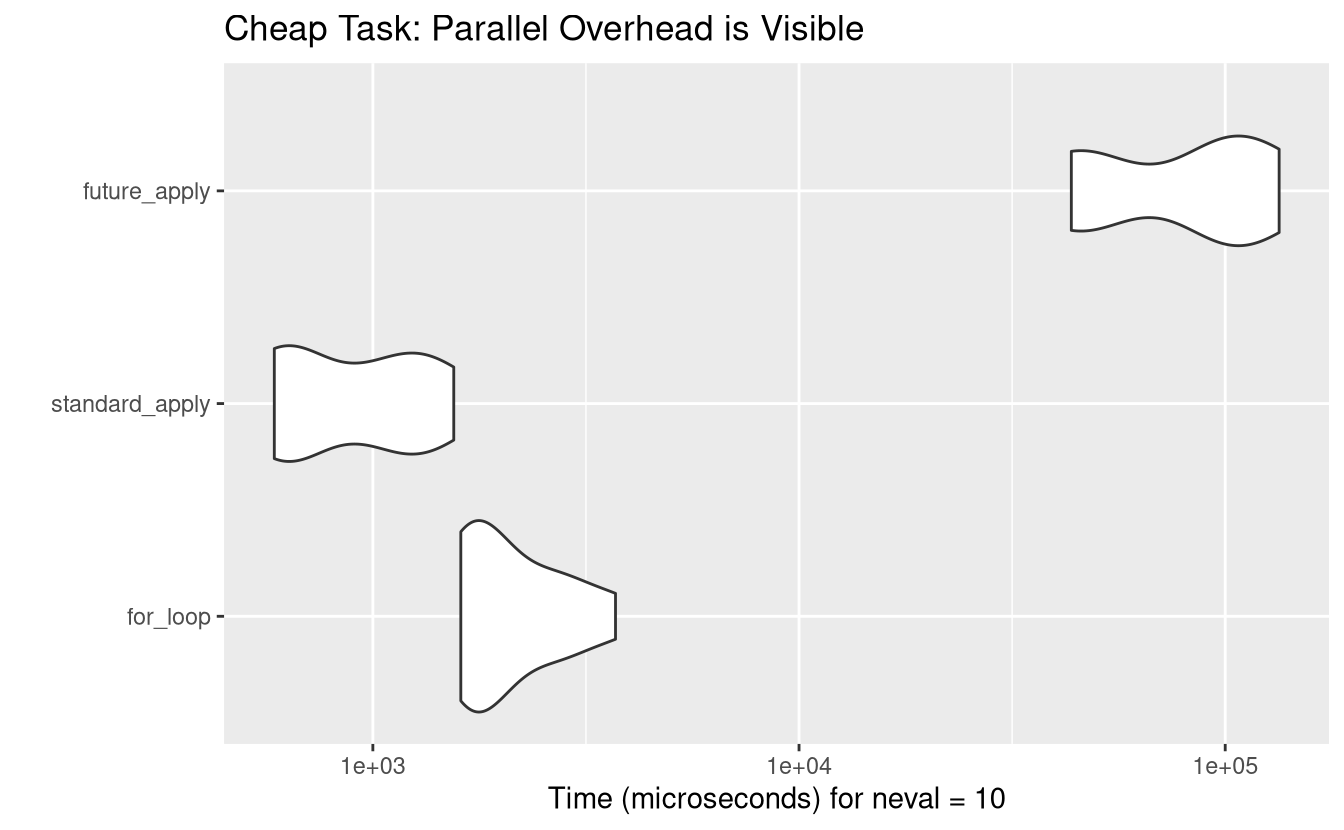
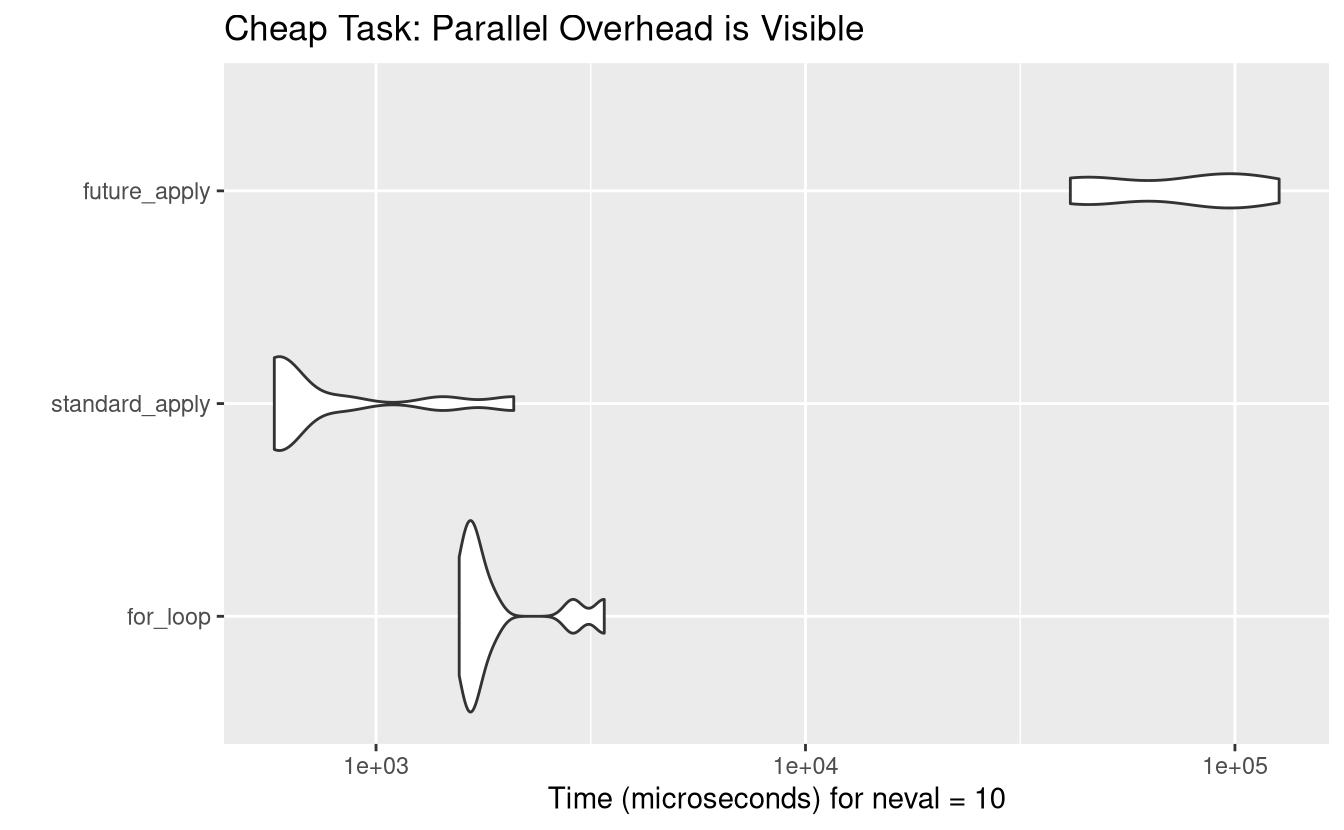
add helena and fix descriptions in prog posts

diff --git a/content/programming/r/future_apply/index.md b/content/programming/r/future_apply/index.md
@@ -2,10 +2,10 @@
 title: "Benchmarking future.apply"
 date: 2026-03-25
 weight: 10
-summary: "A very brief introduction on using the DataFrames package in Julia"
+summary: "For loops are vary commonly used for performing tasks in series. However, the apply family of functions and a new framework (future.apply) allow to perform this tasks in parallel, which might be more performant than the classical for-loop in R."
 tags: ["R", "programming", "loops", "parallelization"]
 output: hugodown::md_document
-rmd_hash: c7e926ff014f0802
+rmd_hash: adbcb8ea7021af37
 
 ---
 
@@ -40,11 +40,11 @@ In this scenario, we do something very fast: calculating the mean of 1,000 numbe
 <span><span class='nf'><a href='https://rdrr.io/pkg/knitr/man/kable.html'>kable</a></span><span class='o'>(</span><span class='nf'><a href='https://rdrr.io/r/base/summary.html'>summary</a></span><span class='o'>(</span><span class='nv'>bench_cheap</span><span class='o'>)</span>, caption <span class='o'>=</span> <span class='s'>"Cheap Task Results (milliseconds)"</span><span class='o'>)</span></span>
 </code></pre>
 
-| expr           |       min |        lq |       mean |    median |         uq |        max | neval |
-|:------------|--------:|--------:|---------:|--------:|---------:|---------:|-----:|
-| for_loop       |  1608.359 |  1670.975 |  2190.1166 |  1903.875 |   2669.886 |   3709.897 |    10 |
-| standard_apply |   587.176 |   595.874 |   947.8083 |   867.347 |   1267.916 |   1548.279 |    10 |
-| future_apply   | 43543.992 | 46387.785 | 84049.1765 | 99176.992 | 102294.771 | 133827.555 |    10 |
+| expr           |       min |        lq |      mean |     median |         uq |        max | neval |
+|:------------|--------:|--------:|--------:|---------:|---------:|---------:|-----:|
+| for_loop       |  1561.955 |  1641.735 |  1977.428 |  1695.8220 |   1878.798 |   3399.713 |    10 |
+| standard_apply |   579.605 |   582.867 |   852.848 |   602.6825 |    838.682 |   2092.615 |    10 |
+| future_apply   | 41374.150 | 45666.810 | 78277.196 | 85182.7665 | 100218.485 | 126745.649 |    10 |
 
 Cheap Task Results (milliseconds)
 
@@ -98,9 +98,9 @@ In this scenario, we simulate "heavy" work by adding a tiny delay (`Sys.sleep`).
 
 | expr           |       min |        lq |      mean |    median |        uq |       max | neval |
 |:------------|--------:|--------:|--------:|--------:|--------:|--------:|-----:|
-| for_loop       | 2010.7866 | 2010.7866 | 2014.4950 | 2014.4950 | 2018.2033 | 2018.2033 |     2 |
-| standard_apply | 2008.7650 | 2008.7650 | 2011.7931 | 2011.7931 | 2014.8213 | 2014.8213 |     2 |
-| future_apply   |  279.5349 |  279.5349 |  292.0067 |  292.0067 |  304.4786 |  304.4786 |     2 |
+| for_loop       | 2009.7809 | 2009.7809 | 2009.9488 | 2009.9488 | 2010.1167 | 2010.1167 |     2 |
+| standard_apply | 2008.7005 | 2008.7005 | 2011.9033 | 2011.9033 | 2015.1061 | 2015.1061 |     2 |
+| future_apply   |  294.6049 |  294.6049 |  303.7617 |  303.7617 |  312.9184 |  312.9184 |     2 |
 
 Expensive Task Results (seconds)
 

diff --git a/content/people/students/_index.md b/content/people/students/_index.md
@@ -90,4 +90,16 @@ layoutBackgroundHeaderSpace: false
       <p class="text-base !mb-0 !mt-0">Katerina studied activity patterns, habitat use, and the influence of body size in those biological rates in individuals of <i>Timon lepidus</i> using a combination of biologing of individuals in mesocosms, and finally tuned mechanistic (biophysical) models. She used all that information to study the physiology of free-ranging lizards and evaluate the potential impacts of climate change at fine resolution and the individual level.</p>
     </div>
   </div>
+
+  <div class="flex flex-col md:flex-row items-center md:items-start gap-4 mt-6">
+    <img src="helena.jpg" class="w-24 h-24 rounded-full object-cover shadow-sm" alt="Helena Martínez-Gil" />
+    <div>
+      <h3 class="text-xl font-bold !mb-0 !mt-0">Helena Martínez-Gil</h3>
+      <p class="text-neutral-500 italic !mb-0 !mt-0">Master Student</p>
+      <p class="text-base !mb-0 !mt-0">Helena studied the morphological and climatic niche evolution of true frogs (<i>Rana</i> and <i>Lithobates</i> genera). Using phylogenetic comparative methods she tested for the generality of the so-called ecogeographical rules using a system of "sister parallel radiation". She found contrasting patterns between the two radiations, challenging the view that ecogeographical rules are universal.</p>
+      <div class="flex gap-4">
+        <a href="https://www.mncn.csic.es/es/quienes_somos/martinez-gil-helena" target="_blank" class="text-primary-500 hover:underline">Website</a>
+      </div>
+    </div>
+  </div>
 </div>

diff --git a/content/programming/julia/statistics/index.md b/content/programming/julia/statistics/index.md
@@ -3,7 +3,9 @@ title: Data analysis in Julia
 author: Urtzi Enriquez-Urzelai
 date: 2025-03-27T00:00:00.000Z
 weight: 30
-summary: A very brief introduction on using the DataFrames package in Julia
+summary: >-
+  This post touches some aspects of exploratory statistical analyses, as well as
+  some basics of hypothesis testing
 tags:
   - Julia
   - data analyses

diff --git a/content/programming/julia/making_plots/index.md b/content/programming/julia/making_plots/index.md
@@ -3,7 +3,7 @@ title: Making plots with Makie.jl
 author: Urtzi Enriquez-Urzelai
 date: 2025-03-26T00:00:00.000Z
 weight: 20
-summary: A very brief introduction on using the DataFrames package in Julia
+summary: An overview on how to make plots with the Makie framework in Julia
 tags:
   - Julia
   - plotting
